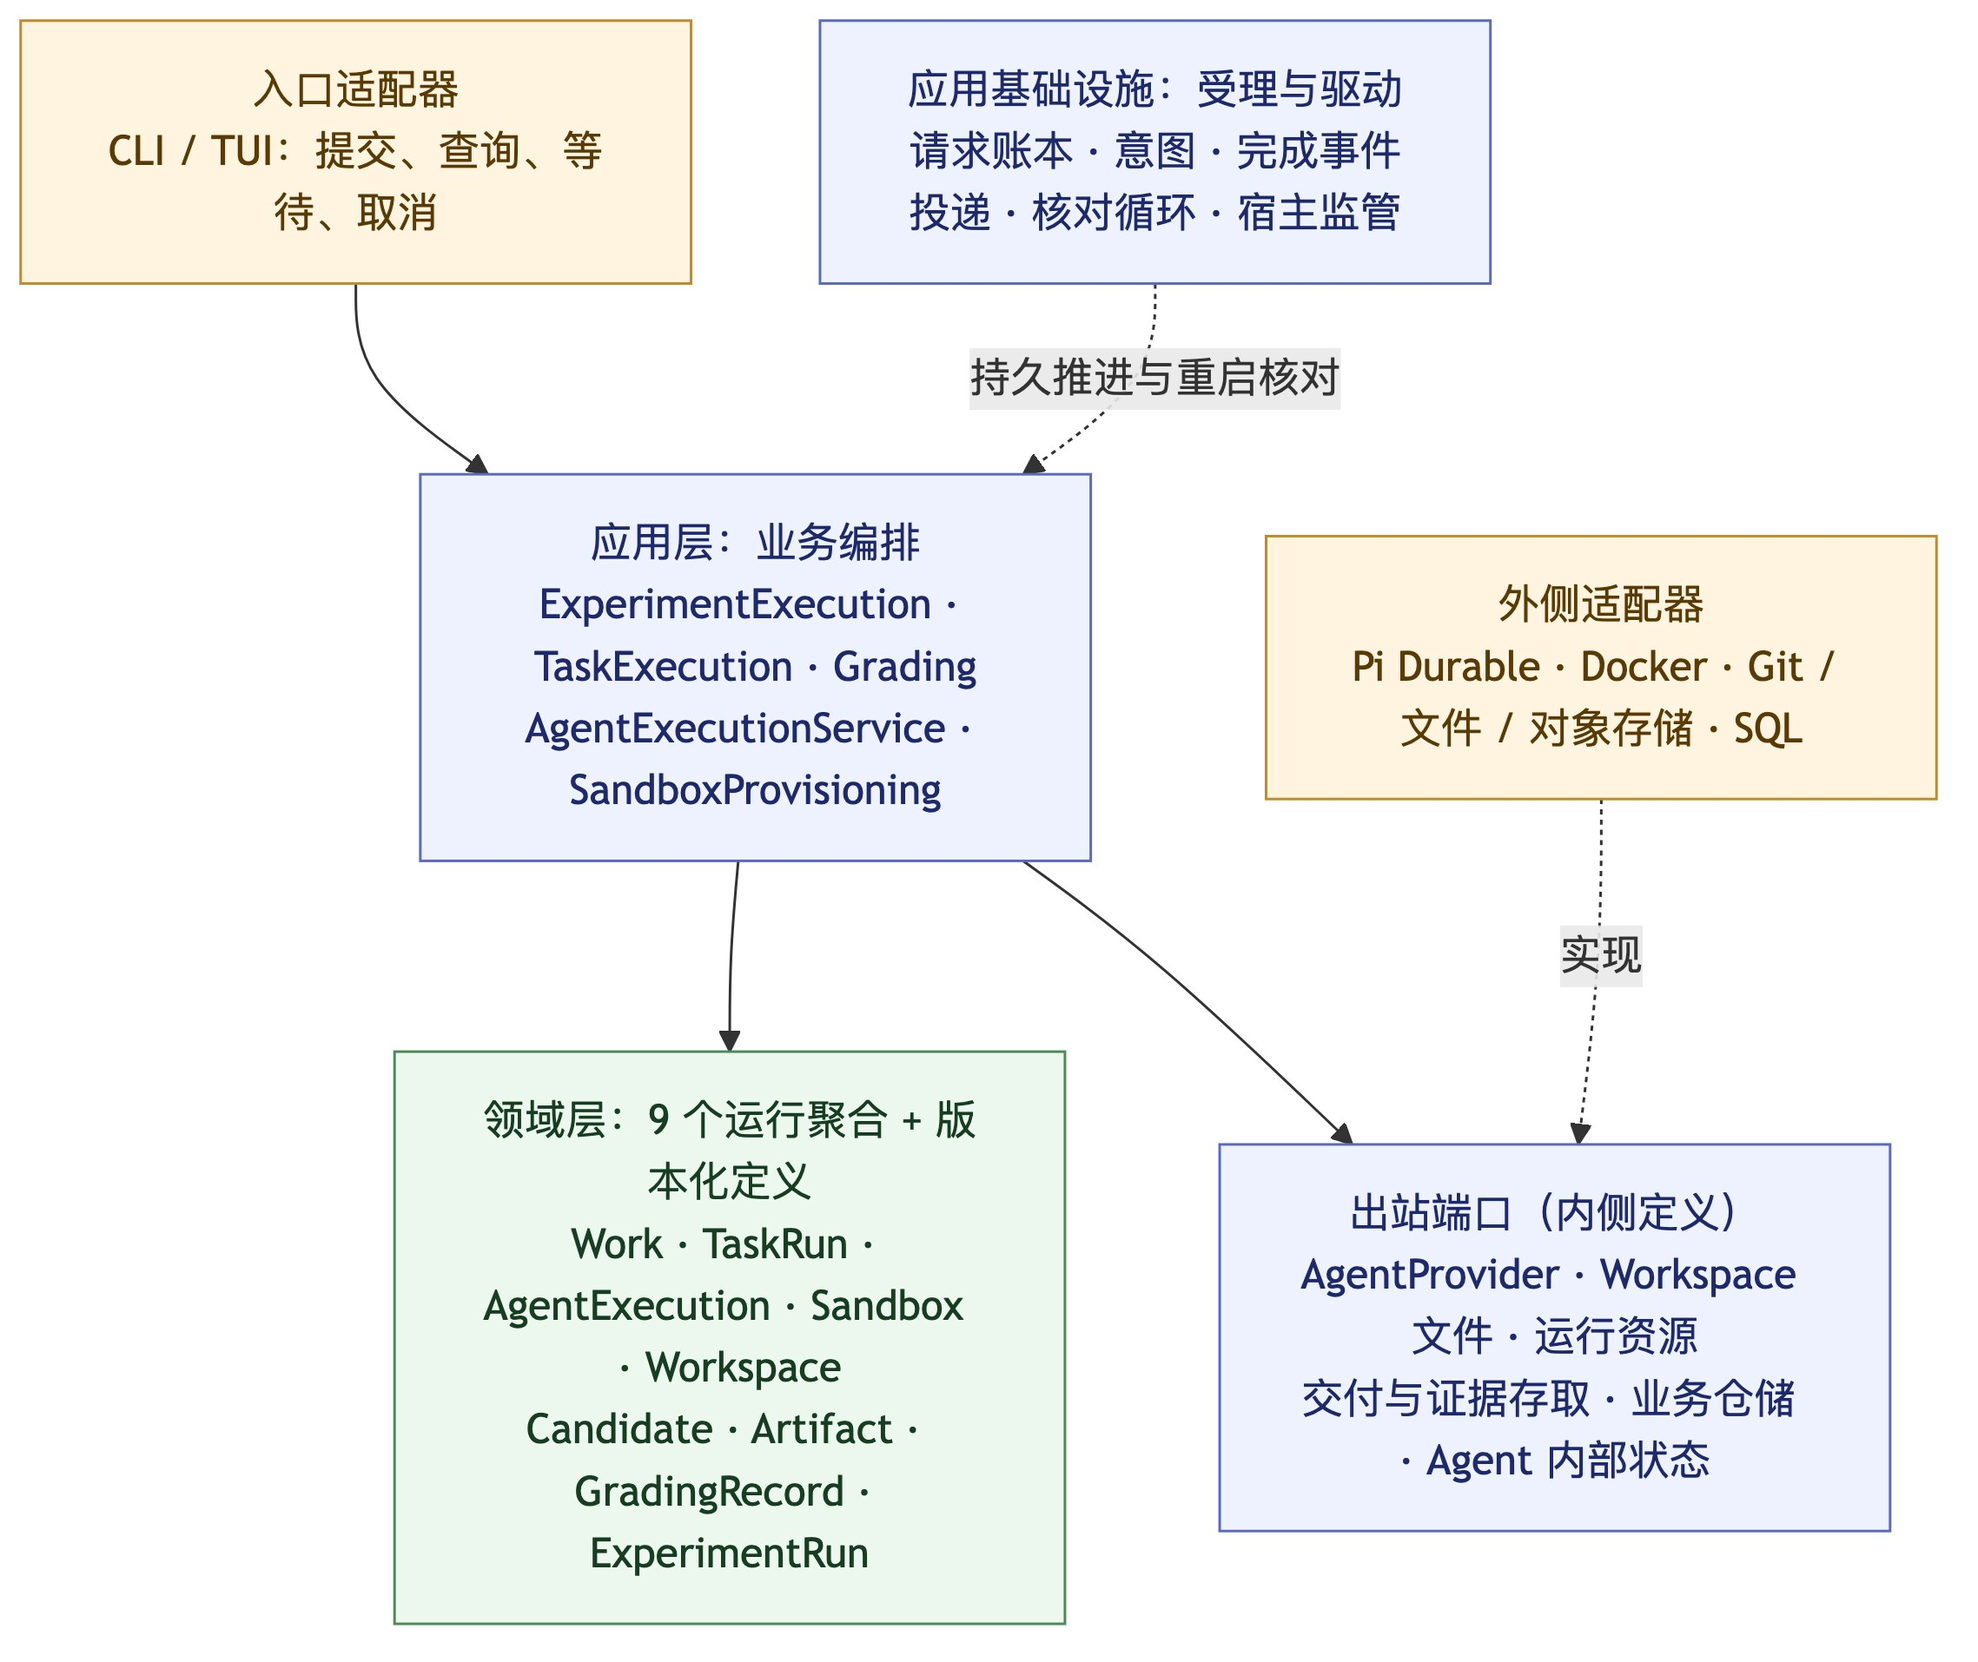
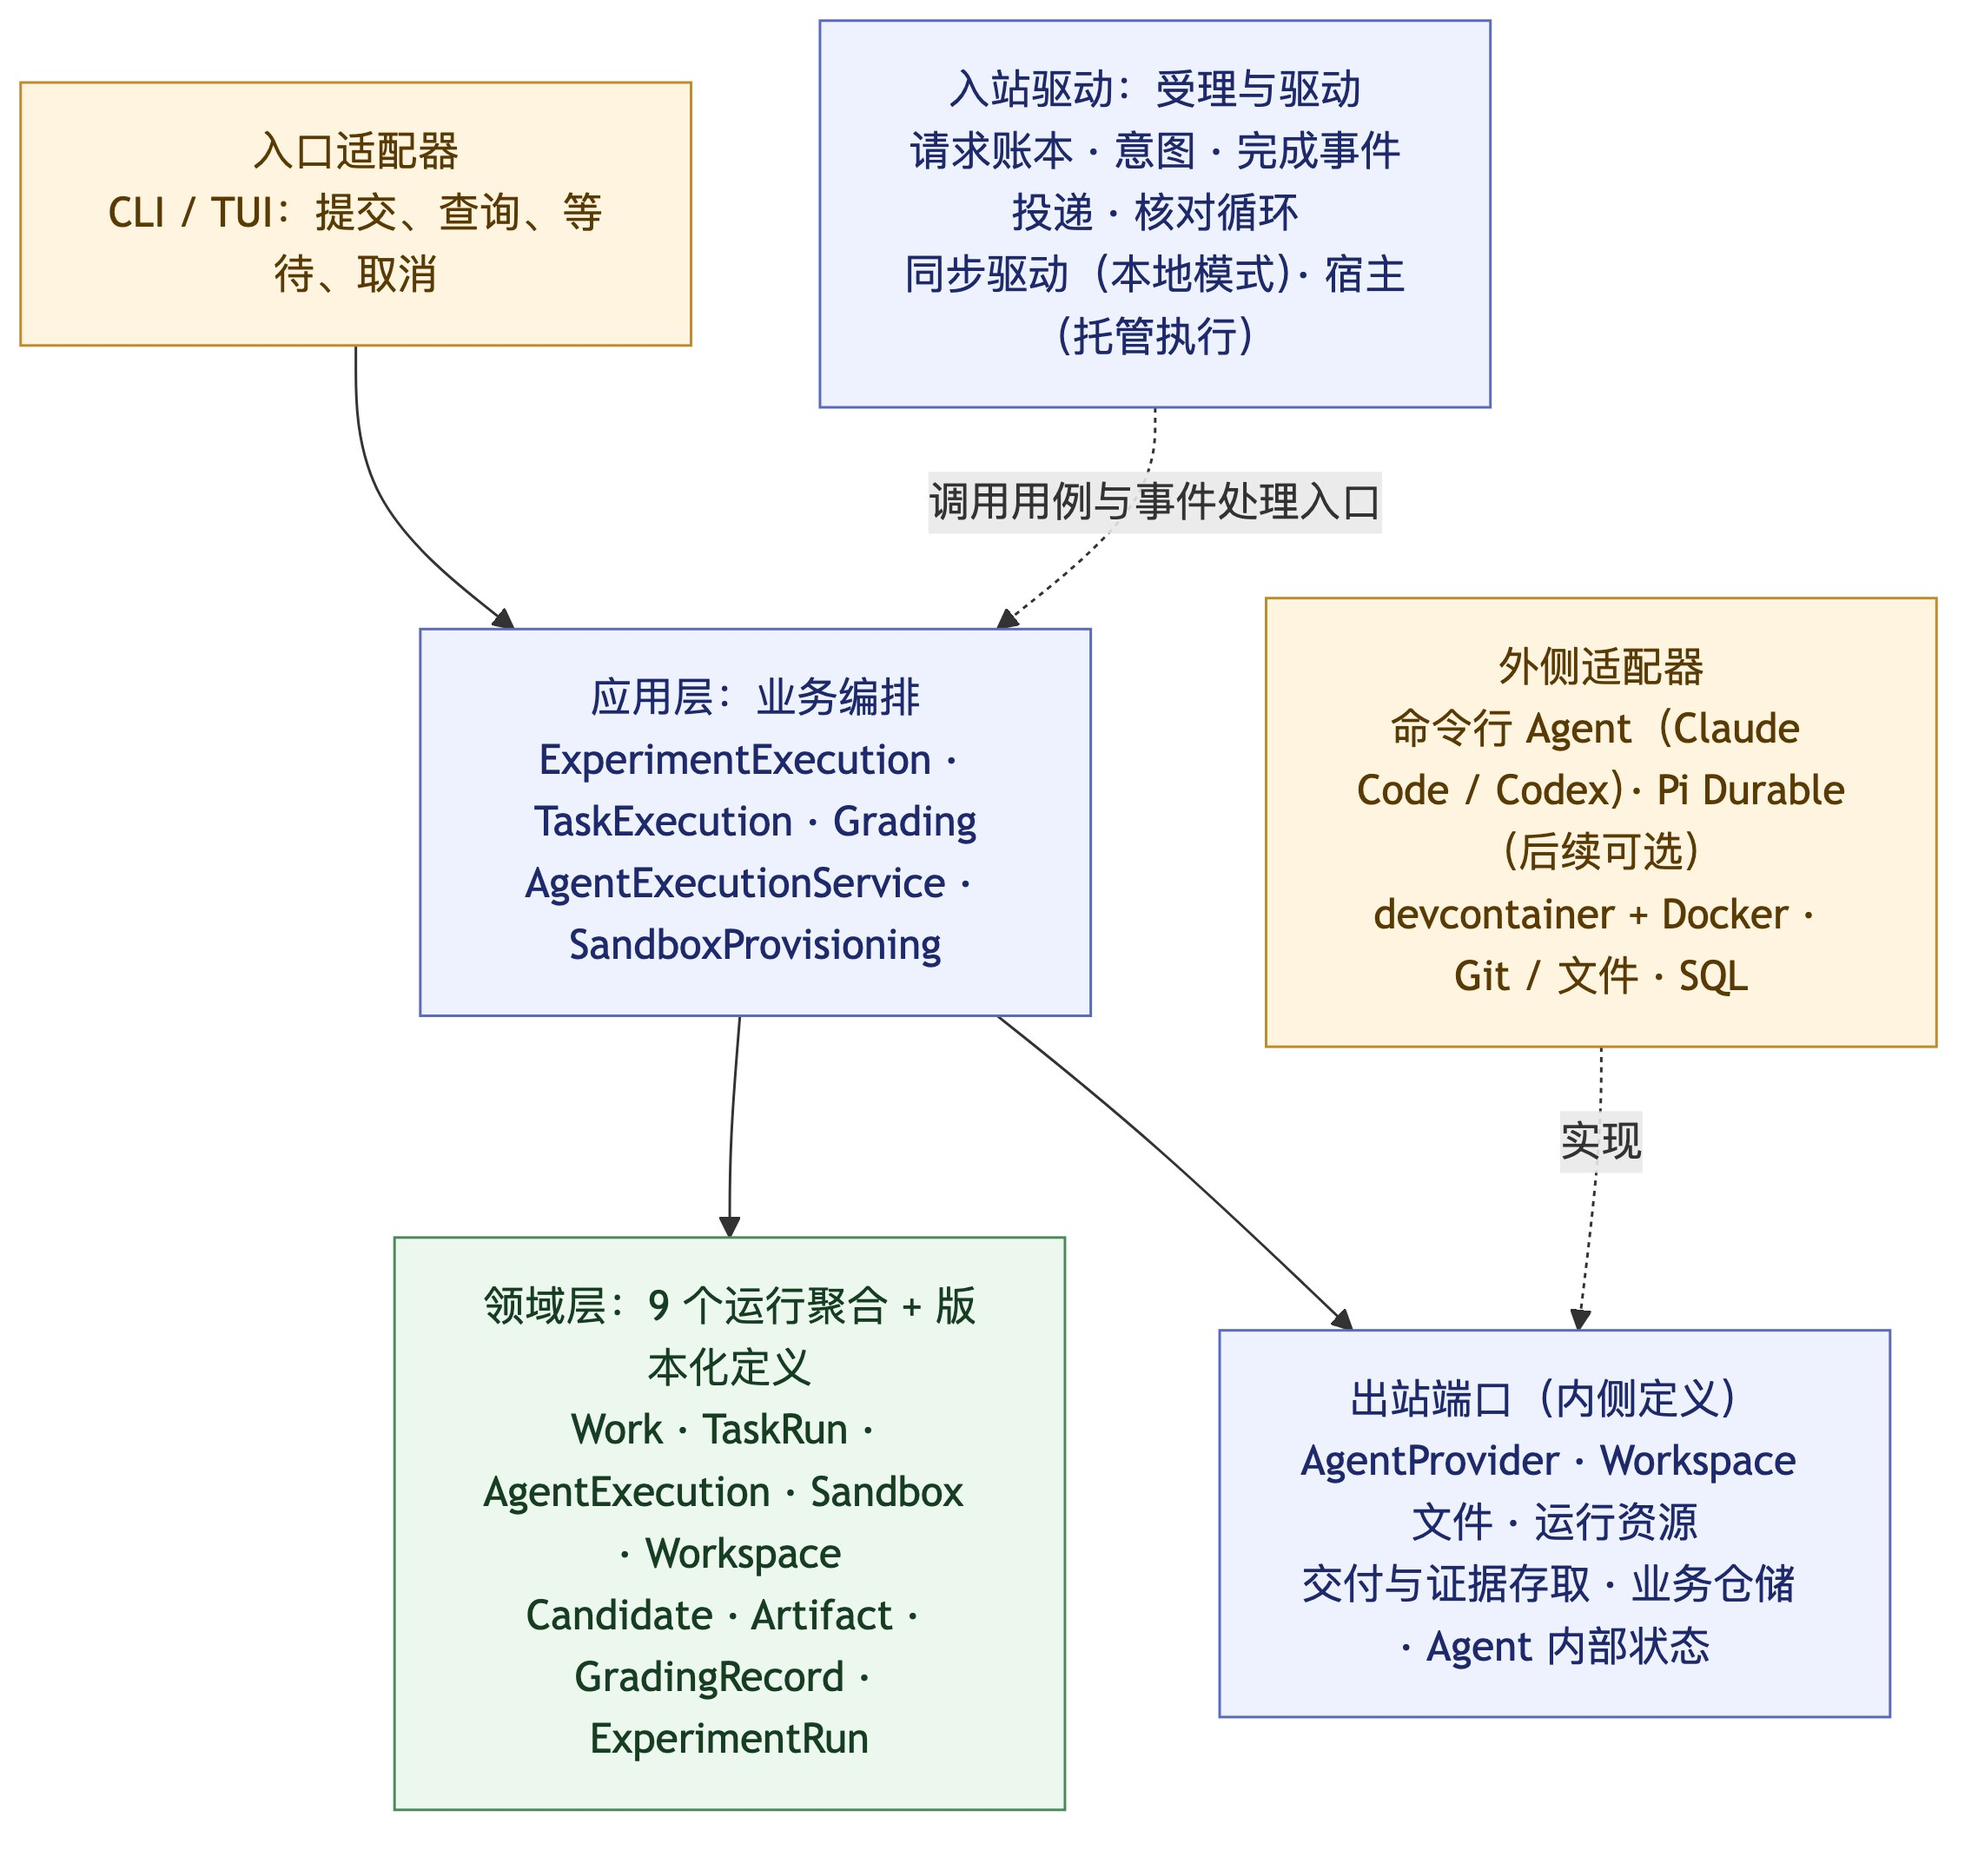
docs: close review findings on external execution and archiving (D148)
Keep external-execution worktrees out of Sandbox transfer, add synchronous driving for local mode, move test grading to P4, define archive integrity states and their effects, adopt Grounds-issued session identities for external workers and evaluators, linearize external submission with cancellation, freeze imported transcripts at gate acceptance, make the driver inbound, bound batch execution, fix D68 scope, add per-phase acceptance checklists, and annotate remaining Pi Durable references.

diff --git a/docs/vision.md b/docs/vision.md
@@ -19,9 +19,9 @@
 按重要性排序。前两条是 Grounds 存在的理由，后两条是支撑它们的必要条件，单独拿出来并不构成卖点。
 
 1. **契约先行的日常开发。** 在需求定义时写清目标、约束和逐条验收条件。Agent 负责实现，独立 Agent 逐条核验并给出证据，人只在两端出现：定义契约、裁决结果。由此可以放心地同时推进多项任务。
-2. **开发即评测资产。** 日常开发留下的任务、冻结的交付、验收记录和人工裁决，天然构成私有评测资产。补充评分依据（例如从被采纳的交付派生的隐藏测试或参考答案）后，就成为可复现的评测集，可以用来比较不同的 Agent、Skill 和模型。
+2. **开发即评测资产。** 日常开发留下的任务、冻结的交付、验收记录和人工裁决，天然构成私有评测资产。补充评分依据（例如从被采纳的交付派生的隐藏测试或参考答案）后，就成为可复现的评测集，可以用来比较不同的 Agent、Skill 和模型。能否复现取决于归档的交付仍可取得，Grounds 会持续检查并如实标注。
 3. **本地、低摩擦。** 下载 CLI、完成基础配置即可在本机使用，不需要部署服务。团队共享（共享数据库等）是可选增强，不是前提。
-4. **隔离与并发。** 每项任务在自己的隔离环境中执行，多项任务可以并发而互不干扰。支持两种工作模式：不需要容器的本地模式（自带 Agent 在宿主上工作），以及由 Grounds 管控容器的托管模式。这是必要能力，但不是差异点。
+4. **隔离与并发。** 多项任务可以并发推进。Agent 的控制方式有两种：本地模式（自带 Agent 在宿主上工作，任务之间以独立 worktree 协作式隔离，可以按需为命令加上容器运行环境），以及容器托管模式（Grounds 在容器里运行 Agent，运行资源的隔离可以核实）。这是必要能力，但不是差异点。
 
 ## 4. 目标用户
 
